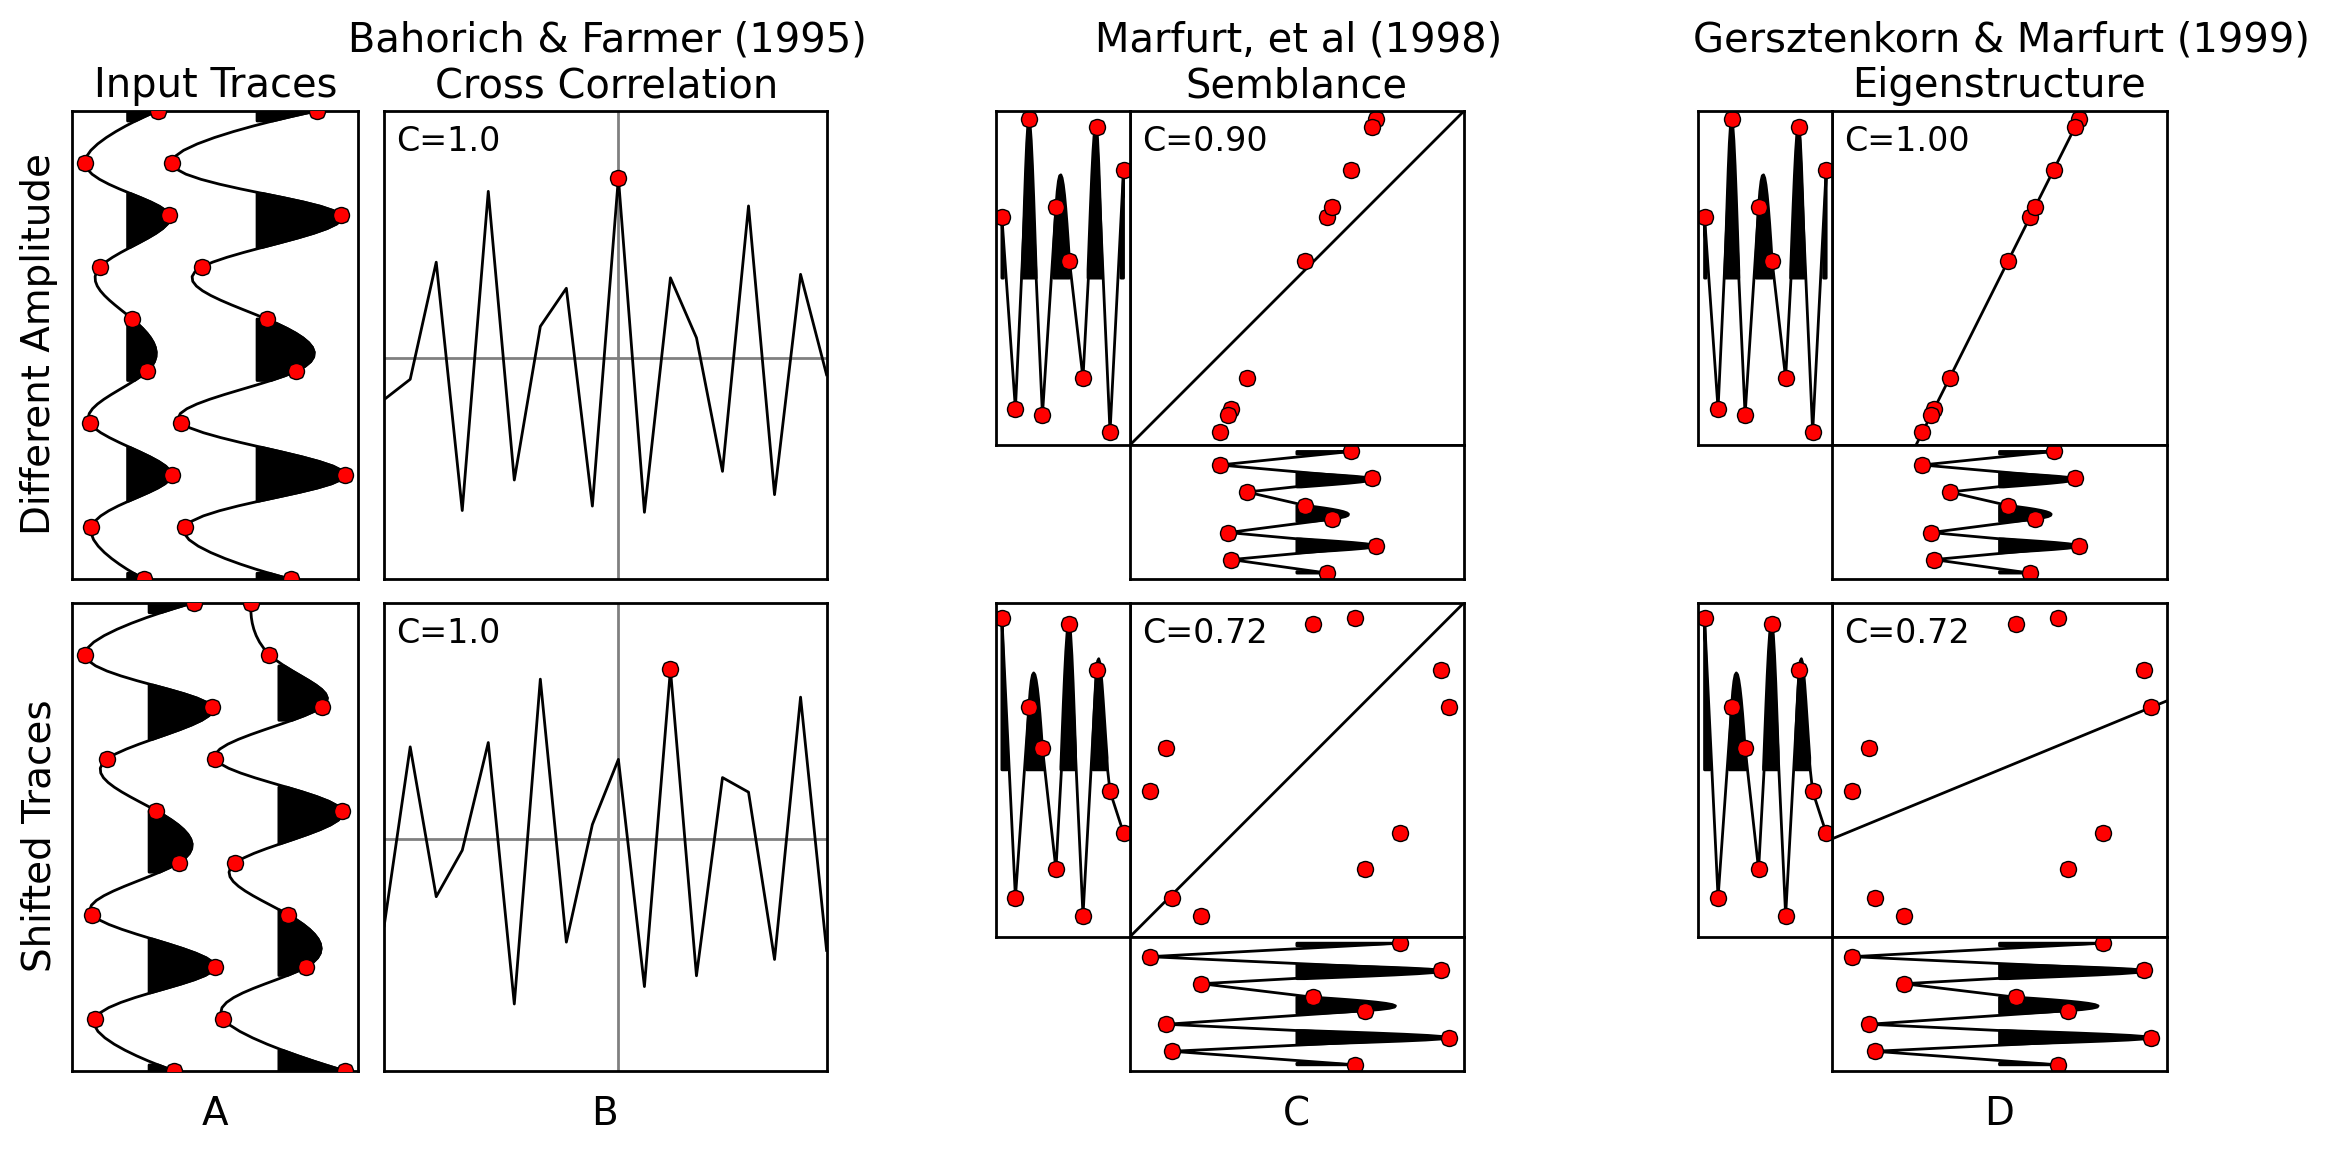
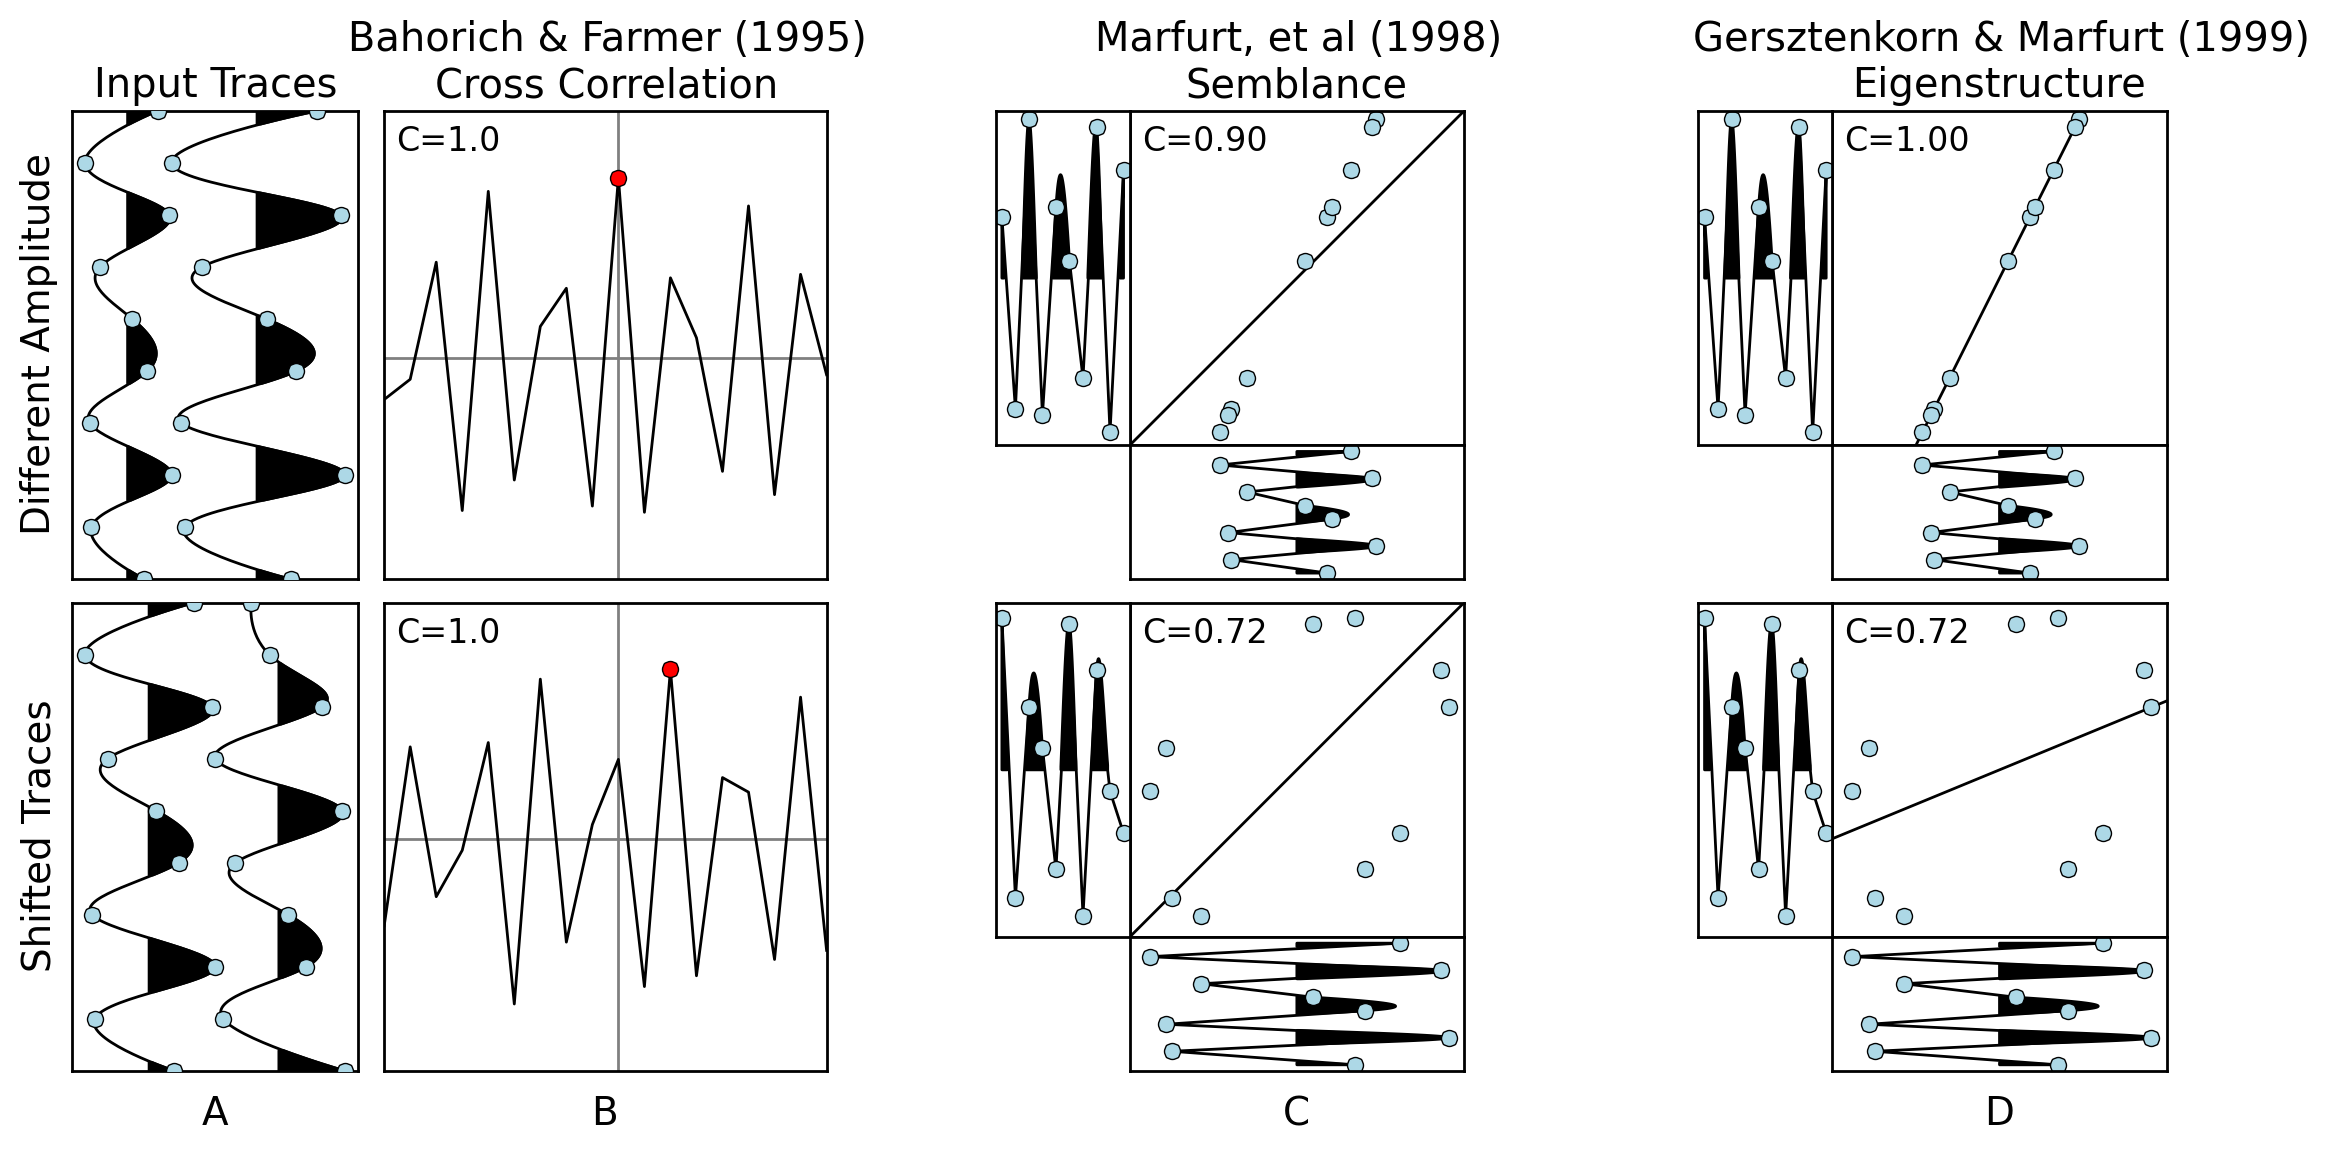
Color etc tweaks to figure 2

diff --git a/1512_Semblance_coherence_and_discontinuity/figure_2.py b/1512_Semblance_coherence_and_discontinuity/figure_2.py
@@ -89,12 +89,12 @@ def wiggles(ax, t, y1, y2):
     shift = y1.max() - y2.min() #+ 0.1 * y2.ptp()
     y2 = y2 + shift
 
-    ax.plot(y1, t, 'ro', zorder=4)
-    ax.plot(y2, t, 'ro', zorder=4)
+    ax.plot(y1, t, 'o', zorder=4, color='lightblue')
+    ax.plot(y2, t, 'o', zorder=4, color='lightblue')
 
-    t = scipy.ndimage.zoom(t, 10)
-    y1 = scipy.ndimage.zoom(y1, 10)
-    y2 = scipy.ndimage.zoom(y2, 10)
+    t = scipy.ndimage.zoom(t, 30)
+    y1 = scipy.ndimage.zoom(y1, 30)
+    y2 = scipy.ndimage.zoom(y2, 30)
 
     ax.fill_betweenx(t, y1, where=y1 > 0, facecolor='black')
     ax.plot(y1, t, color='black')
@@ -130,7 +130,7 @@ def cross_corr(ax, trace_func):
     xcorr /= (y1.std() * y2.std() * y2.size)
 
     ax.plot(xcorr, color='black')
-    ax.plot([xcorr.argmax()], [xcorr.max()], 'ro')
+    ax.plot([xcorr.argmax()], [xcorr.max()], 'o', color='red')
     ax.axhline(0, color='gray', zorder=0)
     ax.axvline(xcorr.size // 2, color='gray', zorder=0)
     label_coherence(ax, 'C={:0.1f}'.format(xcorr.max()))
@@ -138,7 +138,7 @@ def cross_corr(ax, trace_func):
     ax.margins(y=0.2)
 
 def setup_trace_xy(ax, t, y1, y2):
-    ax.plot(y1, y2, 'ro')
+    ax.plot(y1, y2, 'o', color='lightblue')
     ax.set(aspect=1, adjustable='datalim')
 
     divider = make_axes_locatable(ax)
@@ -154,12 +154,12 @@ def setup_trace_xy(ax, t, y1, y2):
 #    hax.set_xlabel('Trace 1 Amplitude')
 #    vax.set_ylabel('Trace 2 Amplitude')
 
-    vax.plot(t, y2, marker='o', color='black', mfc='red')
-    tt, y2 = scipy.ndimage.zoom(t, 10), scipy.ndimage.zoom(y2, 10)
+    vax.plot(t, y2, marker='o', color='black', mfc='lightblue')
+    tt, y2 = scipy.ndimage.zoom(t, 30), scipy.ndimage.zoom(y2, 30)
     vax.fill_between(tt, y2, where=y2 > 0, facecolor='black')
 
-    hax.plot(y1, t, marker='o', color='black', mfc='red')
-    tt, y1 = scipy.ndimage.zoom(t, 10), scipy.ndimage.zoom(y1, 10)
+    hax.plot(y1, t, marker='o', color='black', mfc='lightblue')
+    tt, y1 = scipy.ndimage.zoom(t, 30), scipy.ndimage.zoom(y1, 30)
     hax.fill_betweenx(tt, y1, where=y1 > 0, facecolor='black')
 
     hax.margins(0.05)
@@ -177,7 +177,8 @@ def bottom_label(ax, label):
                 textcoords='offset points',
                 ha='center', va='bottom', size=14)
 
-main()
-plt.show()
+if __name__ == '__main__':
+    main()
+    plt.show()
 
 
